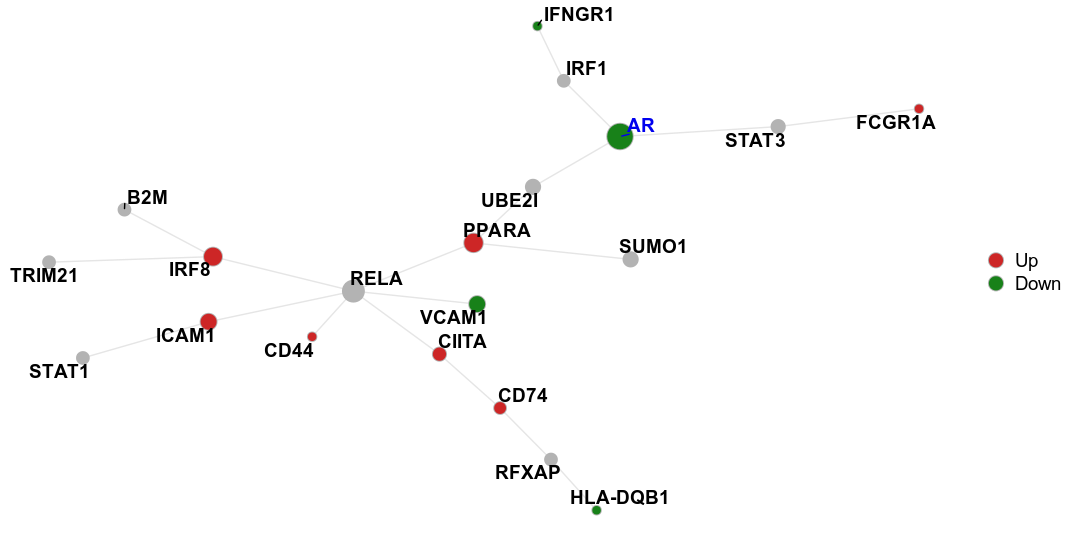
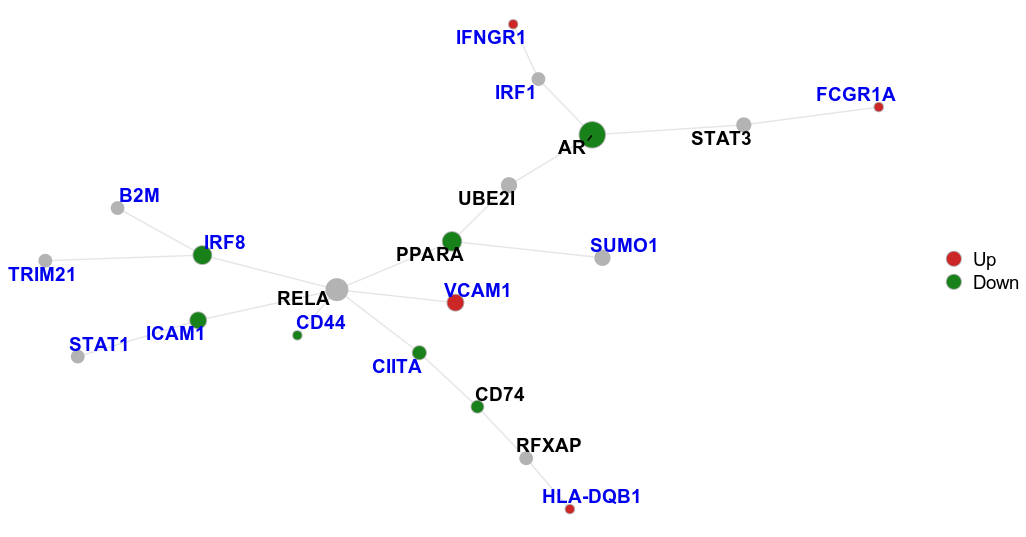
Updated plotting example for extract_subnetwork in README

diff --git a/README.md b/README.md
@@ -97,7 +97,8 @@ pathways (implemented with
 ```
 
 Finally, we can pick one of the pathways output above, and pull out a
-module/subnetwork based on the genes belonging to that pathway:
+module/subnetwork based on the genes belonging to that pathway, which are 
+highlighted when plotting:
 
 ```r
 > ex_net_module <- extract_subnetwork(
@@ -114,7 +115,8 @@ module/subnetwork based on the genes belonging to that pathway:
     layout       = "kk",
     label        = TRUE,
     label_column = gene_name,
-    label_filter = 0
+    label_filter = 0,
+    subnet       = TRUE
   )
 ```
 
